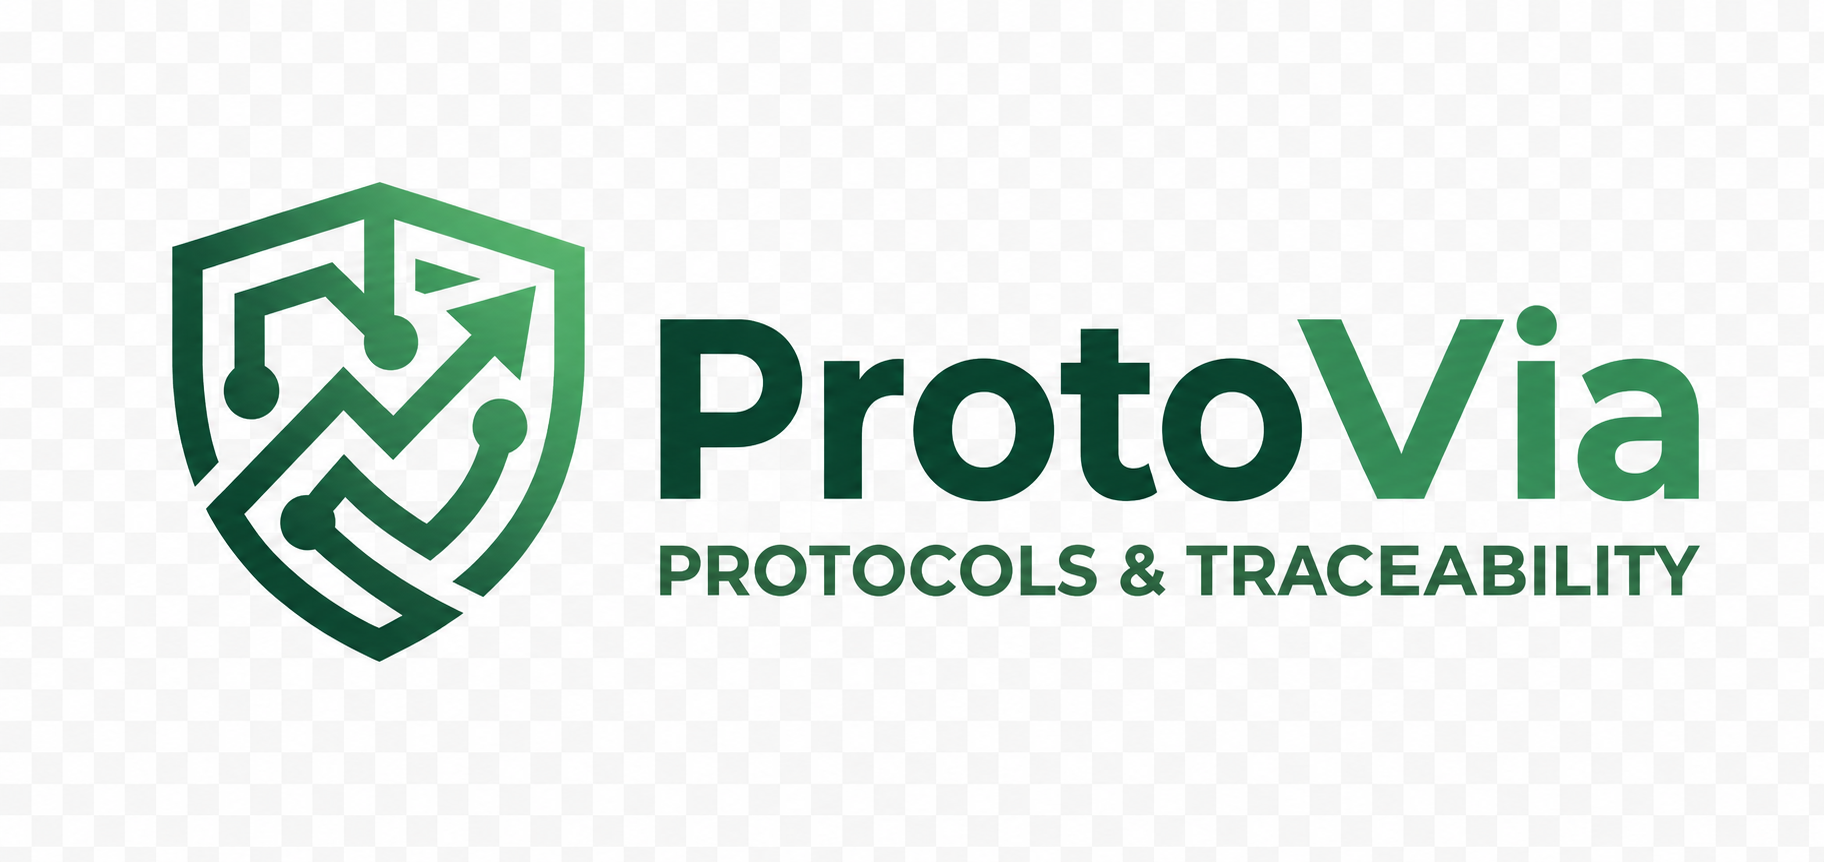
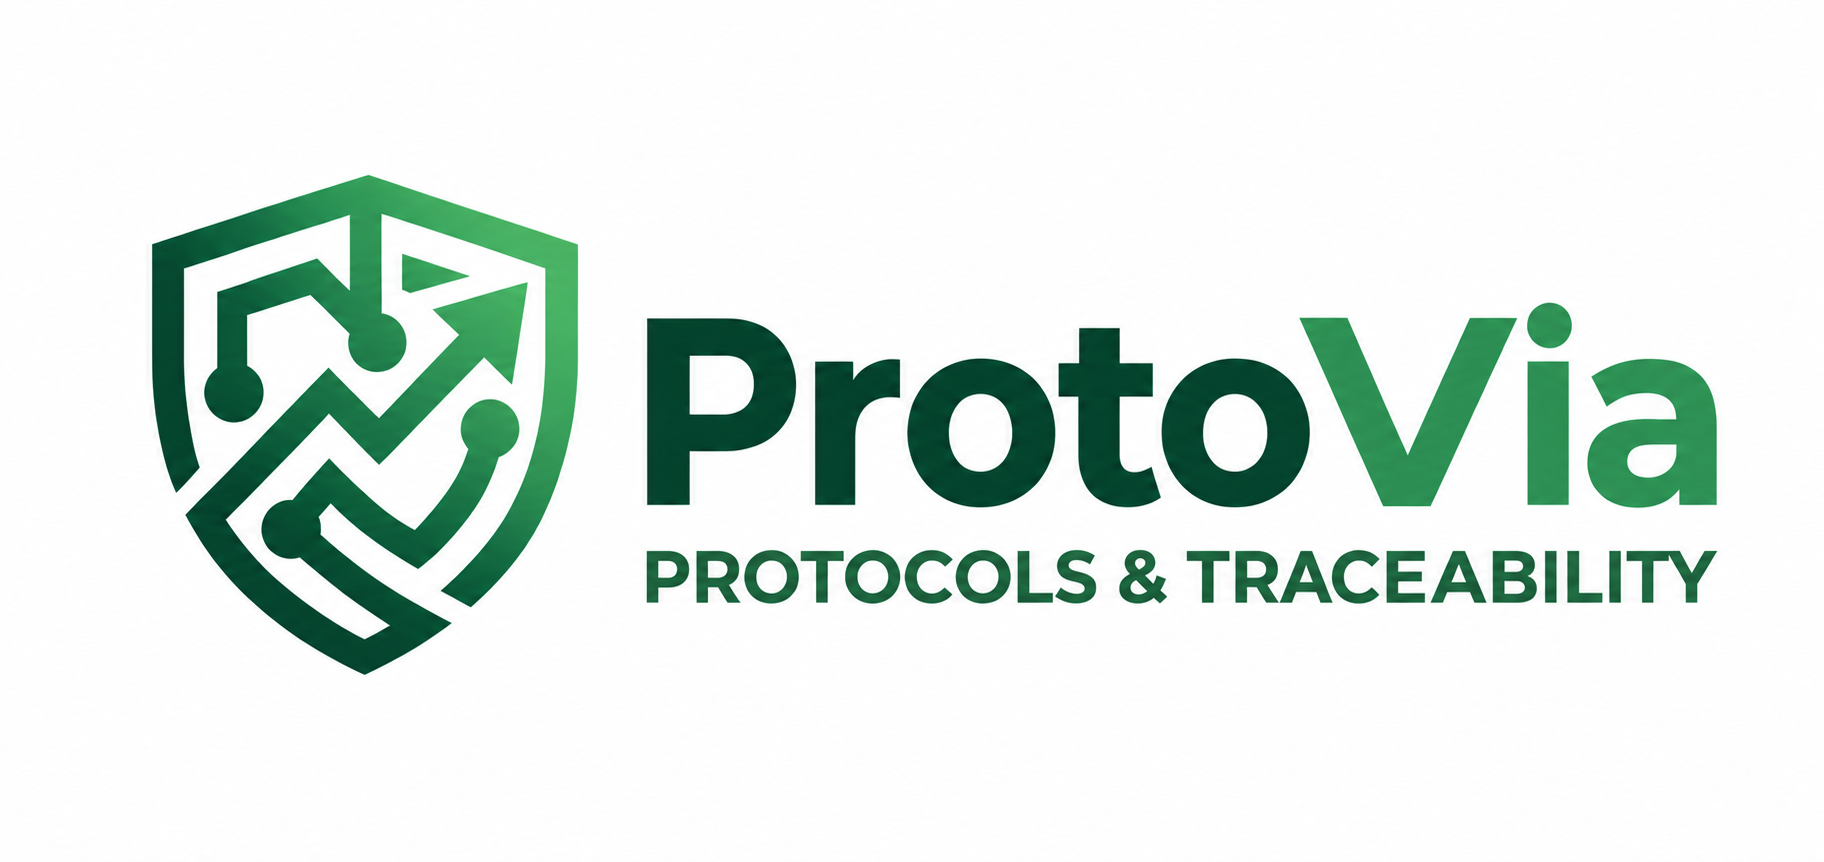
Move identidade para configurações do Protovia

diff --git a/public/delivery-settings.js b/public/delivery-settings.js
@@ -1,7 +1,9 @@
 (() => {
   const dialog=document.createElement('dialog');
   dialog.id='deliverySettingsDialog';
-  dialog.innerHTML=`<form><h2>Configurações de entrega</h2><p>Regras desta instalação. Somente administradores podem alterá-las.</p>
+  dialog.innerHTML=`<form><h2>Configurações</h2><p>Identidade e regras desta instalação. Somente administradores podem alterá-las.</p>
+    <section class="identity-settings"><div><strong>Identidade do cliente</strong><p class="help">Nome e logo exibidos junto da marca permanente da ProtoVia.</p></div><button type="button" class="open-identity">Configurar identidade</button></section>
+    <h3>Regras de entrega</h3>
     <label>Localização ao concluir<select name="gpsMode"><option value="off">Desativada — não coletar localização</option><option value="required">Obrigatória — bloquear sem localização</option><option value="justification">Solicitar — permitir ausência com justificativa</option></select></label>
     <p class="help">Coleta pontual após a conferência, nunca rastreamento contínuo. A precisão depende do aparelho; localização não comprova presença de forma absoluta.</p>
     <label class="check"><input type="checkbox" name="qrRequired"> Exigir conferência por QR Code</label>
@@ -11,11 +13,11 @@
     <p class="error" role="alert"></p><footer><button type="button" class="close">Cancelar</button><button type="submit">Salvar regras</button></footer></form>`;
   document.body.append(dialog);
   const style=document.createElement('style');
-  style.textContent='#deliverySettingsDialog{width:min(560px,94vw);max-height:90vh;overflow:auto;border:1px solid #cbe1dd;border-radius:16px;padding:24px;color:#17453d}#deliverySettingsDialog::backdrop{background:#071936bb}#deliverySettingsDialog label{display:block;margin:18px 0 10px;font-weight:600}#deliverySettingsDialog select{display:block;width:100%;padding:12px;margin-top:8px;border:1px solid #badcd6;border-radius:8px;background:white;color:#17453d}#deliverySettingsDialog .check{display:flex;gap:10px;align-items:center}#deliverySettingsDialog .check input{width:18px;height:18px}#deliverySettingsDialog .help{font-size:13px;line-height:1.6;color:#527e77}#deliverySettingsDialog .error{color:#ad2437}#deliverySettingsDialog footer{display:flex;justify-content:flex-end;gap:10px}#deliverySettingsDialog button,.delivery-settings-button{padding:10px 14px;border:1px solid #b6dcd6;border-radius:8px;cursor:pointer}#deliverySettingsDialog button[type=submit]{background:#126053;color:white}.delivery-settings-button{margin:10px;background:#126053;color:#fff}.delivery-location-button{margin:10px 0;padding:9px 14px;border-radius:8px;border:1px solid #b6dcd6;background:#f0faf8;color:#126053}';
+  style.textContent='#deliverySettingsDialog{width:min(620px,94vw);max-height:90vh;overflow:auto;border:1px solid #cbe1dd;border-radius:16px;padding:24px;color:#17453d}#deliverySettingsDialog::backdrop{background:#071936bb}#deliverySettingsDialog label{display:block;margin:18px 0 10px;font-weight:600}#deliverySettingsDialog select{display:block;width:100%;padding:12px;margin-top:8px;border:1px solid #badcd6;border-radius:8px;background:white;color:#17453d}#deliverySettingsDialog .check{display:flex;gap:10px;align-items:center}#deliverySettingsDialog .check input{width:18px;height:18px}#deliverySettingsDialog .help{font-size:13px;line-height:1.6;color:#527e77;margin:4px 0}#deliverySettingsDialog .identity-settings{display:flex;align-items:center;justify-content:space-between;gap:16px;margin:20px 0;padding:16px;border:1px solid #cbe1dd;border-radius:12px;background:#f2faf8}#deliverySettingsDialog .identity-settings strong{font-size:15px}#deliverySettingsDialog .open-identity{flex:0 0 auto;background:#fff;color:#126053}#deliverySettingsDialog h3{margin:24px 0 4px;padding-top:18px;border-top:1px solid #dcebe8}#deliverySettingsDialog .error{color:#ad2437}#deliverySettingsDialog footer{display:flex;justify-content:flex-end;gap:10px}#deliverySettingsDialog button,.delivery-settings-button{padding:10px 14px;border:1px solid #b6dcd6;border-radius:8px;cursor:pointer}#deliverySettingsDialog button[type=submit]{background:#126053;color:white}.delivery-settings-button{margin:10px;background:#126053;color:#fff}.delivery-location-button{margin:10px 0;padding:9px 14px;border-radius:8px;border:1px solid #b6dcd6;background:#f0faf8;color:#126053}@media(max-width:520px){#deliverySettingsDialog .identity-settings{display:block}#deliverySettingsDialog .open-identity{width:100%;margin-top:12px}}';
   document.head.append(style);
   const form=dialog.querySelector('form');
   const error=dialog.querySelector('.error');
-  const button=document.createElement('button');button.type='button';button.className='delivery-settings-button';button.textContent='Configurações de entrega';button.hidden=true;
+  const button=document.createElement('button');button.type='button';button.className='delivery-settings-button';button.textContent='Configurações';button.hidden=true;
   button.classList.add('menu-btn');
   button.dataset.access='admin';
   const sidebar=document.querySelector('.side');
@@ -31,6 +33,7 @@
     try{const policy=await fetchPolicy();form.elements.gpsMode.value=policy.gpsMode;form.elements.qrRequired.checked=policy.qrRequired;form.elements.manualNumberAllowed.checked=policy.manualNumberAllowed;dialog.showModal();}
     catch(e){alert(e.message);}
   };
+  dialog.querySelector('.open-identity').onclick=()=>{dialog.close();window.protoviaIdentitySettings?.open();};
   dialog.querySelector('.close').onclick=()=>dialog.close();
   form.onsubmit=async event=>{
     event.preventDefault();const submit=form.querySelector('[type=submit]');submit.disabled=true;

diff --git a/public/installation.js b/public/installation.js
@@ -2,10 +2,12 @@
   let settings;
   const overlay = document.createElement('dialog');
   overlay.id = 'installationDialog';
-  overlay.innerHTML = `<form id="installationForm"><h2 id="installationTitle">Configurar Protovia</h2>
-    <p>Cadastre a identidade do cliente. A marca ProtoVia continuará visível como responsável pelo produto.</p>
-    <label>Nome do cliente ou organização<input name="organizacao" required maxlength="120" placeholder="Ex.: Empresa Cliente"></label>
-    <label>Logo do cliente (opcional, PNG/JPEG/WebP, até 500 KB)<input name="image" type="file" accept="image/png,image/jpeg,image/webp"></label>
+  overlay.innerHTML = `<form id="installationForm"><h2 id="installationTitle">Identidade do cliente</h2>
+    <p id="installationDescription">Cadastre a identidade do cliente. A marca ProtoVia continuará visível como responsável pelo produto.</p>
+    <div id="organizationIdentity">
+      <label>Nome do cliente ou organização<input name="organizacao" required maxlength="120" placeholder="Ex.: Empresa Cliente"></label>
+      <label>Logo do cliente (opcional, PNG/JPEG/WebP, até 500 KB)<input name="image" type="file" accept="image/png,image/jpeg,image/webp"></label>
+    </div>
     <div id="installationCredentials">
       <label>Seu nome<input name="nome" maxlength="120" autocomplete="name"></label>
       <label>Login do administrador<input name="usuario" autocomplete="username" pattern="[a-z0-9_.-]{3,60}"></label>
@@ -34,9 +36,15 @@
   }
   function open() {
     form.elements.organizacao.value = settings.nome;
+    document.getElementById('organizationIdentity').hidden = !settings.configured;
     document.getElementById('installationCredentials').hidden = settings.configured;
+    document.getElementById('installationTitle').textContent = settings.configured ? 'Identidade do cliente' : 'Criar primeiro administrador';
+    document.getElementById('installationDescription').textContent = settings.configured
+      ? 'Configure a marca do cliente exibida junto da identidade permanente da ProtoVia.'
+      : 'Crie o acesso administrativo inicial. A identidade do cliente será configurada depois do login, no menu Configurações.';
     document.getElementById('installationClose').hidden = !settings.configured;
     for (const name of ['nome','usuario','senha','token']) form.elements[name].required = !settings.configured;
+    form.elements.organizacao.required = settings.configured;
     overlay.showModal();
   }
   overlay.addEventListener('cancel', event => { if (!settings?.configured) event.preventDefault(); });
@@ -45,13 +53,15 @@
     event.preventDefault();
     const button = form.querySelector('[type="submit"]'); button.disabled = true;
     try {
-      let logo = settings.logo;
+      let logo = settings.configured ? settings.logo : '';
       const file = form.elements.image.files[0];
       if (file) {
         if (file.size > 500000) throw Error('A imagem deve ter até 500 KB.');
         logo = await new Promise((resolve,reject) => { const reader = new FileReader(); reader.onload=()=>resolve(reader.result); reader.onerror=reject; reader.readAsDataURL(file); });
       }
-      const body = Object.fromEntries(new FormData(form)); delete body.image; body.logo=logo;
+      const body = Object.fromEntries(new FormData(form)); delete body.image;
+      if (!settings.configured) body.organizacao='Sua organização';
+      body.logo=logo;
       const response = await fetch(settings.configured ? '/api/organization' : '/api/installation', {
         method: settings.configured ? 'PUT' : 'POST', headers: {'Content-Type':'application/json'}, body: JSON.stringify(body)
       });
@@ -60,9 +70,7 @@
     } catch (error) { document.getElementById('installationError').textContent=error.message; }
     finally { button.disabled=false; }
   };
-  const button = document.createElement('button'); button.className='organization-settings-button'; button.type='button'; button.textContent='Identidade do cliente'; button.hidden=true; button.onclick=open;
-  document.querySelector('.side')?.append(button);
-  setInterval(() => { button.hidden = typeof isAdmin !== 'function' || !isAdmin(); }, 1000);
+  window.protoviaIdentitySettings={open:()=>{if(settings?.configured && typeof isAdmin==='function' && isAdmin())open();}};
   fetch('/api/installation', {cache:'no-store'}).then(async response => {
     if (!response.ok) throw Error('Configuração indisponível. Verifique o servidor e tente recarregar.');
     const data = await response.json(); apply(data); if (!data.configured) open();

diff --git a/public/service-worker.js b/public/service-worker.js
@@ -4,7 +4,7 @@
 // ============================================================
 
 const CACHE_NAME =
-  'protovia-protocolos-v84-pickups-recent';
+  'protovia-protocolos-v85-brand-settings';
 
 
 const APP_SHELL = [

diff --git a/README.md b/README.md
@@ -26,13 +26,13 @@ Copie `.env.example` para `.env`. Gere um token de instalação:
 node -e "console.log(require('node:crypto').randomBytes(32).toString('hex'))"
 ```
 
-Coloque o resultado em `SETUP_TOKEN` e execute `npm start`. Abra `http://127.0.0.1:3000` e informe nome da organização, logo opcional, primeiro administrador e token. Não há senha padrão. Depois de concluir, remova `SETUP_TOKEN` do ambiente e reinicie o servidor.
+Coloque o resultado em `SETUP_TOKEN` e execute `npm start`. Abra `http://127.0.0.1:3000` e crie o primeiro administrador usando esse token. Não há senha padrão. Depois, faça login como admin e use **Configurações → Identidade do cliente** para cadastrar nome e logo. Após concluir o primeiro acesso, remova `SETUP_TOKEN` do ambiente e reinicie o servidor.
 
 O banco SQLite será criado vazio em `banco/protovia.db`. Não compartilhe esse arquivo nem o `.env`. Para acesso por outros computadores, configure `HOST` conscientemente e use HTTPS por um proxy reverso; a câmera exige contexto seguro no navegador.
 
 ## Identidade e operação
 
-- Administradores podem alterar nome e logo em **Identidade da organização**.
+- Administradores podem alterar nome e logo em **Configurações → Identidade do cliente**.
 - Cadastre empresas e usuários antes de emitir protocolos.
 - A identidade configurada aparece nas impressões e nos avisos de novas entregas/vencimentos.
 - Etiquetas, envelopes, assinatura, QR Code e confirmação manual de emergência fazem parte do fluxo existente.

diff --git a/CONTINUAR.md b/CONTINUAR.md
@@ -14,7 +14,7 @@ Atualizado em 04/09/2026.
 
 ## Entregue
 
-- Identidade padrão atualizada com a logo horizontal ProtoVia (escudo tecnológico, wordmark e subtítulo `PROTOCOLS & TRACEABILITY`) em PNG transparente. Continua sendo apenas o fallback: uma logo cadastrada pelo administrador permanece prioritária. Arquivo: `public/brand.png`; cache `v83-brand`.
+- Identidade padrão atualizada com a logo horizontal ProtoVia (escudo tecnológico, wordmark e subtítulo `PROTOCOLS & TRACEABILITY`) em PNG com fundo branco sólido. A ProtoVia permanece como marca do produto; a identidade do cliente é complementar e configurada pelo admin. Arquivo: `public/brand.png`; cache `v85-brand-settings`.
 
 - Navegação revisada: Nova solicitação oferece protocolo/retirada para todos os perfis; Acompanhar retiradas fica na lateral, com pop-up de empresa/box, andamento/conferidas e detalhes expansíveis. Solicitantes acompanham as próprias retiradas; Legalização/admin continuam conferindo. Coleta usa regras de GPS com coordenadas restritas ao admin. Migração aditiva de contexto dos registros, sem inventar GPS antigo.
 - Entregues removidos de Solicitações; exclusão recuperável por admin e seleção de etiquetas em Protocolos entregues. Testes cobrem criação pelo entregador, migração de banco existente, GPS e separação das listas. Protovia continua apenas local até concluir a infraestrutura.
